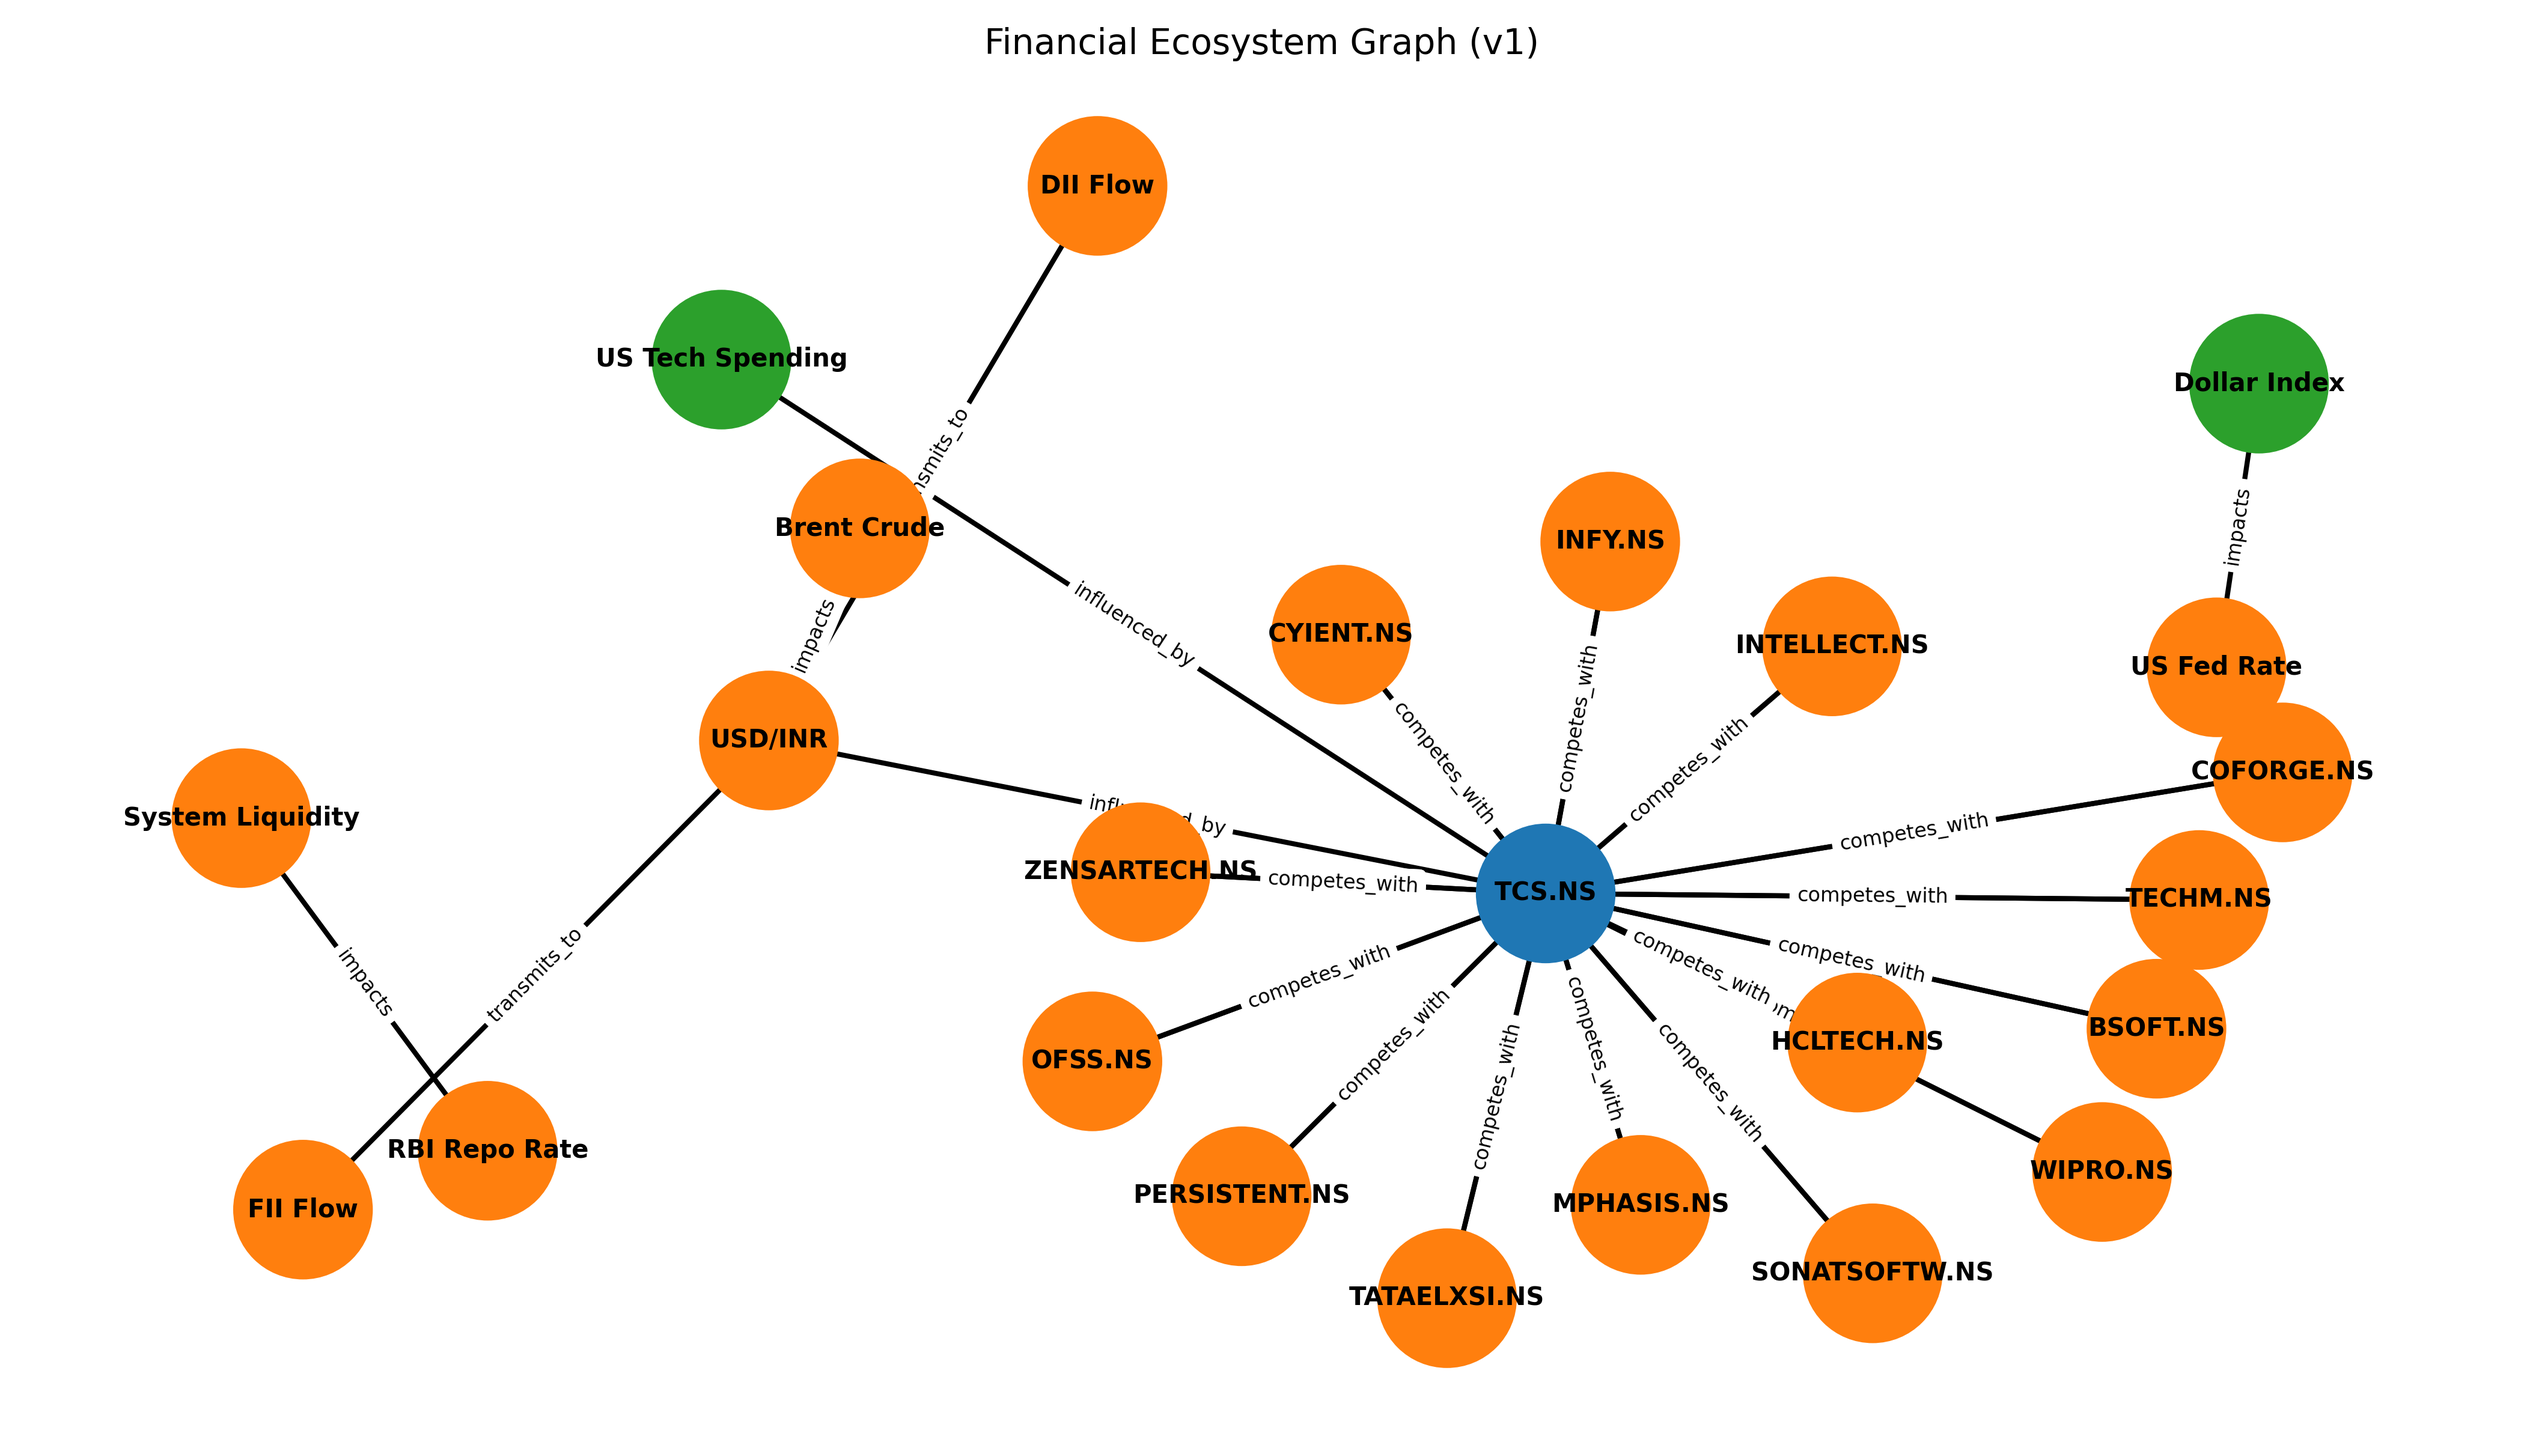
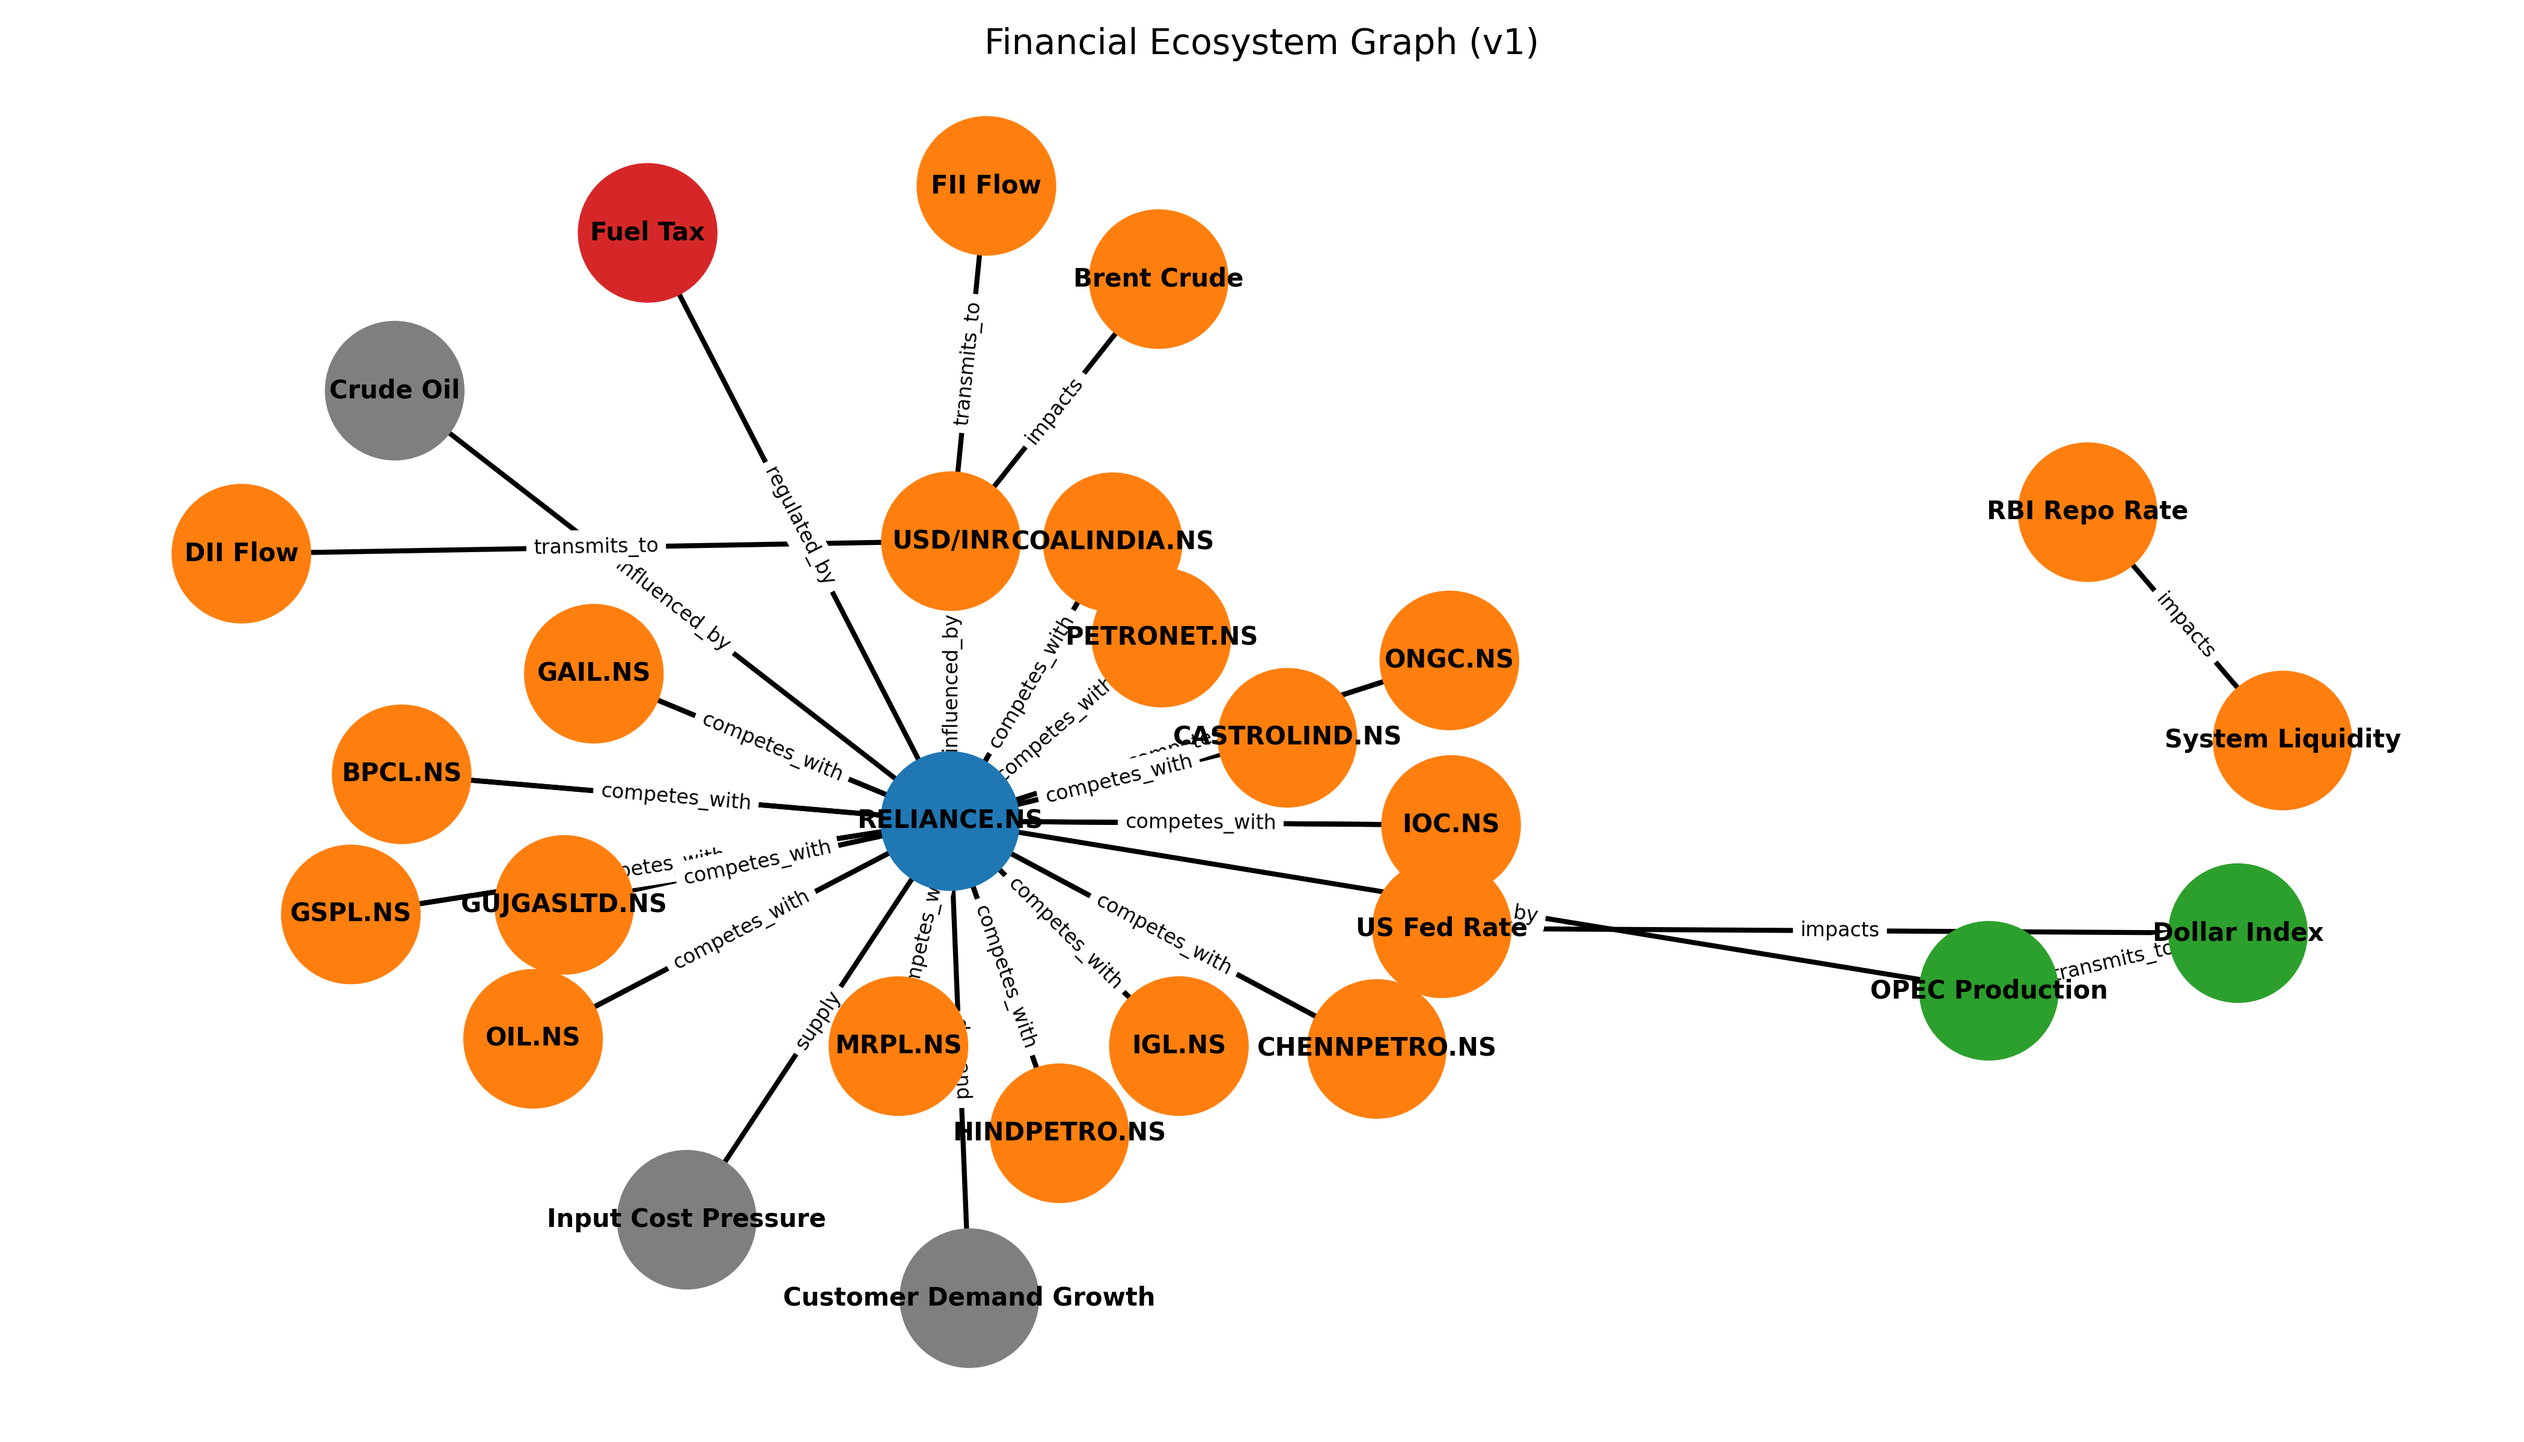
Still in progress

diff --git a/ecosystem_graph/expansion/supply_demand_expander.py b/ecosystem_graph/expansion/supply_demand_expander.py
@@ -1,0 +1,189 @@
+import json
+from collections import deque
+
+
+class SupplyDemandExpander:
+    """
+    Graph-safe recursive expansion of supply and demand drivers.
+
+    Guarantees:
+    - depth control
+    - no cycles
+    - no duplicates
+    - bounded branching
+    """
+
+    def __init__(
+        self,
+        graph_engine,
+        llm,
+        max_depth=3,
+        max_children_per_node=4
+    ):
+        self.graph = graph_engine
+        self.llm = llm
+        self.max_depth = max_depth
+        self.max_children = max_children_per_node
+
+        # global visited registry
+        self.visited = set()
+
+    # --------------------------------------------------
+    # PUBLIC ENTRYPOINT
+    # --------------------------------------------------
+
+    def expand(self, root_node, sector):
+        """
+        Expand supply-demand structure starting from root.
+        """
+
+        queue = deque()
+        queue.append((root_node, 0))
+        self.visited.add(root_node)
+
+        while queue:
+            node, depth = queue.popleft()
+
+            if depth >= self.max_depth:
+                continue
+
+            children = self._generate_children(node, sector)
+
+            for child_name, relation_type in children:
+
+                if not self._is_valid_new_node(node, child_name):
+                    continue
+
+                # create node
+                self.graph._add_node(
+                    child_name,
+                    node_type=relation_type
+                )
+
+                # create directional edge
+                self.graph._add_edge(
+                    src=node,
+                    dst=child_name,
+                    relation=relation_type
+                )
+
+                self.visited.add(child_name)
+                queue.append((child_name, depth + 1))
+
+    # --------------------------------------------------
+    # LLM GENERATION
+    # --------------------------------------------------
+
+    def _generate_children(self, node_name, sector):
+        """
+        Ask LLM for supply and demand drivers.
+        Returns list of tuples: (node_name, relation_type)
+        """
+
+        prompt = f"""
+You are an economic systems modeler building a causal graph.
+
+STRICT RULES:
+- Return ONLY valid JSON
+- No explanation text
+- No markdown
+- No comments
+- No extra words
+
+Node: {node_name}
+Sector: {sector}
+
+Generate up to {self.max_children} economic drivers influencing this node.
+
+Rules:
+- Only economic variables
+- No company names
+- No financial tickers
+- Short names
+- Label each as supply or demand
+
+JSON format:
+[
+    {{"name": "...", "type": "supply"}},
+    {{"name": "...", "type": "demand"}}
+]
+"""
+
+        try:
+            response = self.llm.invoke(prompt)
+            parsed = self._safe_parse_json(response)
+        except Exception:
+            return self._fallback_generation(node_name)
+
+        results = []
+        for item in parsed[: self.max_children]:
+            name = item.get("name", "").strip()
+            t = item.get("type", "").lower()
+
+            if not name:
+                continue
+
+            relation = "supply" if t == "supply" else "demand"
+            results.append((name, relation))
+
+        return results
+
+    # --------------------------------------------------
+    # SAFETY GUARDS
+    # --------------------------------------------------
+
+    def _is_valid_new_node(self, parent, child):
+        """
+        Prevent cycles, duplicates, nonsense.
+        """
+
+        if not child:
+            return False
+
+        if child == parent:
+            return False
+
+        if child in self.visited:
+            return False
+
+        if self.graph.has_node(child):
+            return False
+
+        if len(child) > 60:
+            return False
+
+        return True
+
+    # --------------------------------------------------
+    # SAFE JSON PARSER
+    # --------------------------------------------------
+
+    def _safe_parse_json(self, text):
+        """
+        Extract JSON from LLM response safely.
+        """
+
+        if isinstance(text, list):
+            return text
+
+        start = text.find("[")
+        end = text.rfind("]") + 1
+
+        if start == -1 or end == -1:
+            raise ValueError("No JSON found")
+
+        return json.loads(text[start:end])
+
+    # --------------------------------------------------
+    # FALLBACK (NO LLM / FAILURE)
+    # --------------------------------------------------
+
+    def _fallback_generation(self, node):
+        """
+        Deterministic minimal expansion if LLM fails.
+        """
+
+        return [
+            ("Input Cost Pressure", "supply"),
+            ("Customer Demand Growth", "demand"),
+        ]

diff --git a/ecosystem_graph/pipeline.py b/ecosystem_graph/pipeline.py
@@ -4,6 +4,8 @@ from ecosystem_graph.data.market_universe import MarketUniverse
 from ecosystem_graph.data.ontology import INDUSTRY_DEPENDENCY_PROFILE
 from ecosystem_graph.core.graph_engine import EcosystemGraphEngine
 from ecosystem_graph.core.propagation import PropagationEngine
+from ecosystem_graph.groq_client import GroqLLM
+from ecosystem_graph.expansion.supply_demand_expander import SupplyDemandExpander
 
 
 class EcosystemPipeline:
@@ -69,6 +71,20 @@ class EcosystemPipeline:
         propagation.build_macro_network()
 
         self._inject_sector_competitors(engine, symbol, industry)
+
+        llm = GroqLLM()
+
+        expander = SupplyDemandExpander(
+            graph_engine=engine,
+            llm=llm,
+            max_depth=3,
+            max_children_per_node=4
+        )
+
+        expander.expand(
+            root_node=ticker,
+            sector=industry
+        )
 
         nodes, edges = engine.export()
 

diff --git a/ecosystem_graph/groq_client.py b/ecosystem_graph/groq_client.py
@@ -1,0 +1,30 @@
+from groq import Groq
+import api_keys
+
+
+class GroqLLM:
+    """
+    Simple adapter so Groq works with expansion engine.
+    Provides: llm.invoke(prompt)
+    """
+
+    def __init__(
+        self,
+        model="llama3-70b-8192",
+        temperature=0.2
+    ):
+        self.client = Groq()
+        self.model = model
+        self.temperature = temperature
+
+    def invoke(self, prompt: str) -> str:
+
+        completion = self.client.chat.completions.create(
+            model=self.model,
+            temperature=self.temperature,
+            messages=[
+                {"role": "user", "content": prompt}
+            ]
+        )
+
+        return completion.choices[0].message.content

diff --git a/tests/test_ecosystem.py b/tests/test_ecosystem.py
@@ -2,7 +2,7 @@ from ecosystem_graph.pipeline import EcosystemPipeline
 from ecosystem_graph.visualize_graph import draw_ecosystem_graph
 
 pipe = EcosystemPipeline("universe/market_universe.parquet")
-nodes, edges = pipe.run("TCS.NS")
+nodes, edges = pipe.run("RELIANCE.NS")
 
 print(nodes)
 print(edges)

diff --git a/ecosystem_graph/core/graph_engine.py b/ecosystem_graph/core/graph_engine.py
@@ -26,6 +26,9 @@ class EcosystemGraphEngine:
         if src == dst:
             return
         self.graph.add_edge(src, dst, relation=relation)
+    
+    def has_node(self, name):
+        return name in self.graph.nodes
 
     # ------------------------
     # Public API
